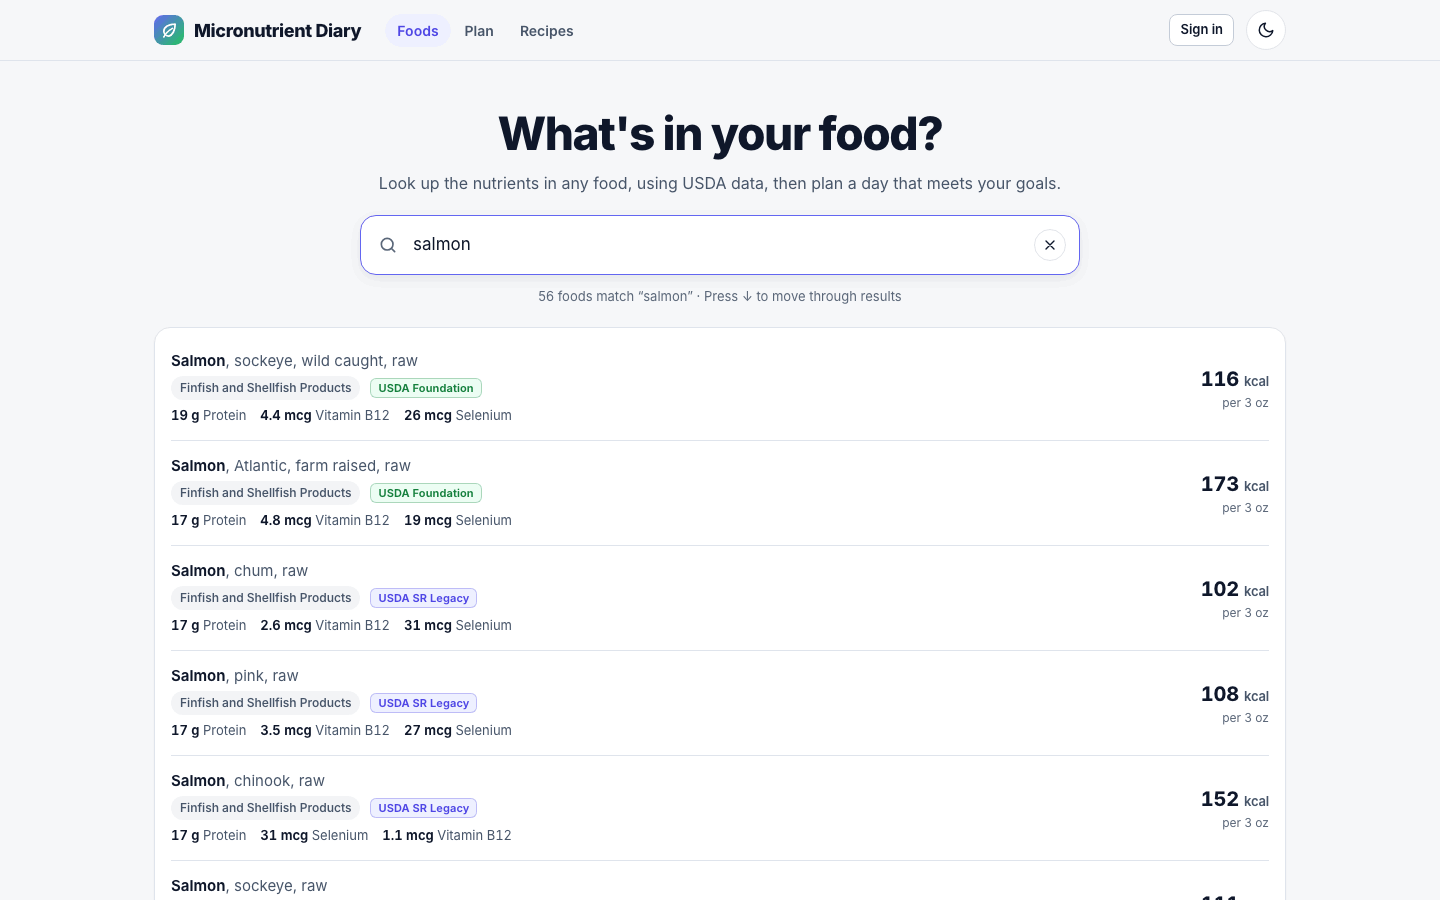
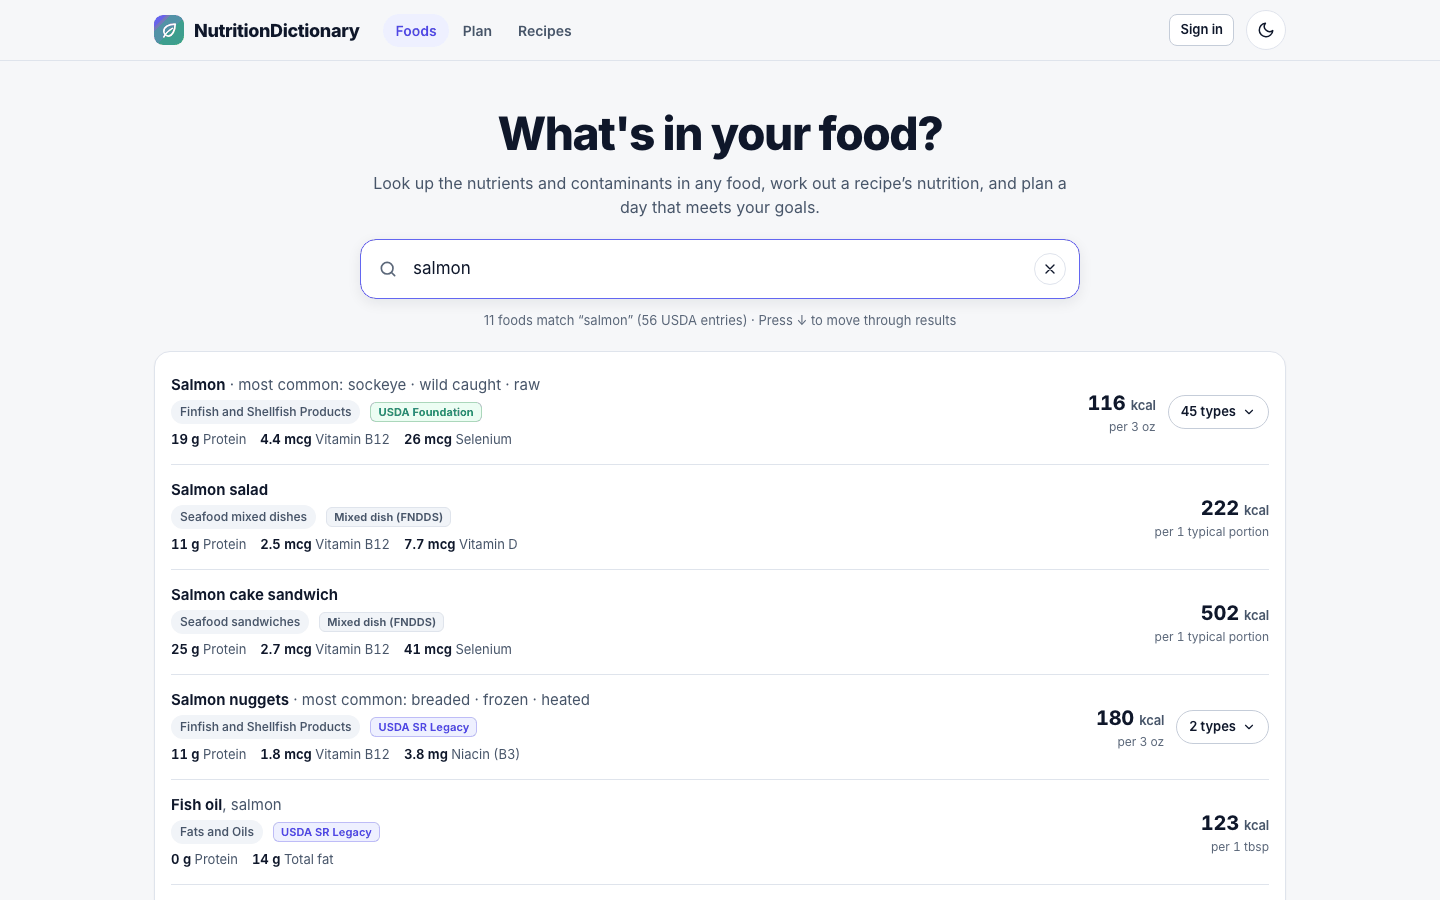
docs(walkthrough): one row per food, the type picker and the Type switcher
Search, food page, Compare and planner sections describe grouped results,
'Which cod?', the food page Type control and how a food and its most
common type are chosen. Refreshed 03 and 04; new 72-75 (all under 70 KB).

diff --git a/docs/WEBSITE_WALKTHROUGH.md b/docs/WEBSITE_WALKTHROUGH.md
@@ -59,8 +59,24 @@ Further down:
 **Searching.**
 
 - Results start at 2 letters and update as you type. The address changes to `/?q=salmon`, so a search can be shared and the Back button returns to it, with the same results and scroll position.
-- Each row shows the name, category, a USDA dataset badge, the top three nutrients, and calories per typical serving. Clicking a row opens the food page. There's no Add button here; adding happens on the food page.
-- **Show more (N left)** loads the next 20.
+- **One row per food.** USDA lists many foods several ways (cod 9 ways, salmon 45). Each food shows once, with its **most common type**: "Salmon · most common: sockeye · wild caught · raw". The status line counts foods and entries: "11 foods match "salmon" (56 USDA entries)". A food USDA lists once looks as it always did.
+- Each row shows the name, category, a USDA dataset badge, the top three nutrients, and calories per typical serving, all for the most common type. Clicking the row opens that type's page. There's no Add button here; adding happens on the food page.
+- **9 types** (on foods with several) opens the type picker, below.
+- **Show more (N left)** loads the next 20 foods.
+
+![Which cod?](walkthrough/72-search-cod-types.png)
+
+**Choosing a type.** The **9 types** button opens **Which cod?** under the row:
+
+- The **Most common** type comes first, then **Raw**, **Cooked**, **Canned, dried & cured** and **Other forms**, A to Z within each. Each type shows its qualifiers ("Atlantic · dried and salted"), calories per 100 g and its USDA dataset, so the choice is informed.
+- Choosing a type opens its food page.
+- Foods with 10 or more types get a **Filter** box ("sockeye canned" leaves two salmon). Foods with more than 60 types (rice, beef) load the rest of the list when the picker opens.
+- Keyboard: Tab reaches **9 types**, Enter opens it, ↑ ↓ move between types (and back to the filter), Home and End jump, Enter chooses, Esc clears the filter and then closes the picker, returning focus to **9 types**. Screen readers hear "Cod, 9 types, choose a type".
+- On a phone the picker opens in place, full width:
+
+![The type picker on a phone, in dark mode](walkthrough/75-phone-dark-cod-types.png)
+
+**What counts as one food.** The short name decides it (`lib/food-groups.ts`): "Fish, cod, Atlantic, raw" and "Cod, Pacific or Alaskan, frozen" are both **Cod**, but "Codfish salad" and "Fish oil, cod liver" are their own foods, and Cheddar and Swiss cheese, or black and kidney beans, stay apart. Catch-all names take the next word too ("Soup, tomato" vs "Soup, chicken noodle"; "Oil, olive" vs "Oil, canola"), branded products only group with the same product, and restaurant, fast-food and baby-food dishes never group. The **most common** type is the entry with calories, without a canned, dried, smoked or other unusual form you didn't search for, from USDA Foundation data before SR Legacy before survey data, raw or plain before cooked, and of the variety most entries share (Atlantic cod, white rice).
 - Keyboard: `/` jumps to the box from anywhere on the page, ↓ moves into the results, Esc clears.
 - Foods you open are remembered as **Recent** chips under the box, in this browser only. Each has an × and there's a **Clear** button.
 - No matches gives "No foods match…" with a tip to use a simpler word and **Browse foods instead**.
@@ -73,6 +89,7 @@ Further down:
 
 - **Breadcrumb:** Foods › category › food.
 - **Name,** with a badge for the USDA dataset. Foods with almost no data also get a **Limited data** badge. An older record that USDA has replaced gets a note linking to the newer one.
+- **Type** (foods with several types): "Type: sockeye · wild caught · raw · 45 types of salmon". It opens the same picker as search, with this page marked **This page**, and each type opens its own page. The serving you picked comes along when it makes sense: 1 oz, 3 oz, 100 g and custom amounts always, a household measure ("1 fillet") when the other type has it, otherwise that type's usual serving.
 - **Add to my plan** puts the food on your planner list, and the planner chooses how much. **Add exactly 216 g** does the same but keeps the serving you picked as a fixed amount, and plans the rest of the day around it. A short line under the buttons says which is which. The button then becomes **In your plan · Open plan**, with the amount if it's fixed.
 - **Compare** opens the [comparison panel](#4-compare).
 - **Share** copies the link, or opens the share sheet on a phone.
@@ -88,13 +105,15 @@ Further down:
 
 ![A custom amount in ounces](walkthrough/71-food-custom-ounces.png)
 
+![Switching to another type of cod at 3 oz](walkthrough/73-food-type-switcher.png)
+
 **How the numbers scale.** USDA stores every nutrient per 100 g, and that is all the database holds. A serving's amount is that value × grams ÷ 100, from the unrounded value, and only the shown number is rounded (0 decimals from 10, 1 from 1, 2 below 1). % Daily Value comes from the unrounded amount. Ounces are exact: 1 oz = 28.349523125 g, so 3 oz = 85.05 g. Where USDA lists "3 oz" as 85 g, or "1 oz" as 28 or 28.35 g, it is the same menu entry as the standard weight, at the exact grams. The difference is 0.06%, which only moves a number sitting right on a rounding edge, by one in its last digit. "—" stays "—" at every weight, † stays on values from the older entry, and a recipe's lower bounds keep their "≥". All of this is in `lib/serving-scale.ts`, with tests.
 
 ![Related foods and the data source](walkthrough/05-food-related-and-source.png)
 
 At the bottom:
 
-- **Other forms** and **Nutritionally similar foods** are cards that open those foods.
+- **Other forms** and **Nutritionally similar foods** are cards that open those foods. **Other forms** leaves out the types the **Type** control already lists, and disappears when that's all of them.
 - **Where this data comes from** names the dataset, links the USDA record, and gives the publication date and release. Where USDA holds the same food in another dataset, **Same food elsewhere** links to it.
 
 ## 3. Contaminant meters
@@ -157,7 +176,7 @@ At the bottom of a full panel, **How we work this out** repeats the bands and li
 **Compare** on a food page opens a panel below the page.
 
 - **Suggestion chips** offer other forms and similar foods. Click to add or remove one.
-- **Or search for another food** finds anything else. You can add up to three foods, and the rest grey out once you have.
+- **Or search for another food** finds anything else, one row per food. **Add** compares the most common type; **9 types** opens the picker to compare another type instead (this page's own food is shown but can't be added). You can add up to three foods, and the rest grey out once you have.
 - **Compare at** puts every label on the same weight: **1 oz**, **3 oz** or **100 g**, one food's serving ("Broccoli (this page): 1 cup, chopped (91 g)", so the others are shown at 91 g), **Each food's usual serving**, or **Custom amount…** in grams or ounces. It starts at the weight the food page is showing, so the page's food doesn't jump and every food is comparable straight away. A line under it says "All 3 labels show 3 oz (85.05 g), so you can compare them directly."
 - **The labels** sit side by side, and you scroll sideways if they don't fit. Each has its own **Serving size** menu, the same one as on its food page, so a food that USDA only lists at 100 g still has 1 oz and 3 oz. Changing one label's menu overrides **Compare at** for that label only: it gets a **Different weight** tag, and a warning names each food's weight with a **Put every food at 3 oz (85.05 g)** button. Changing **Compare at** puts every label back on it.
 - When raw and cooked foods are side by side (raw salmon and cooked lingcod), a note says that cooking removes water, so equal weights aren't like for like.
@@ -230,7 +249,11 @@ Below those:
 
 ![Your foods, with one food's options open](walkthrough/22-plan-your-foods.png)
 
-**Find foods you like** searches the same way as the home page, but each row has an **Add** button. The name links to the food's page. **Popular starting points** are one-click searches.
+**Find foods you like** searches the same way as the home page, one row per food, but each row has an **Add** button. The name links to the food's page. **Popular starting points** are one-click searches.
+
+![Choosing a type of cod in the planner](walkthrough/74-plan-cod-types.png)
+
+On a food with several types, **Add** adds the most common type, for when you don't mind which. **9 types** opens the picker, where every type has its own **Add** / **Added** button, and the control then says how many are in your list ("9 types · 2 added").
 
 **Your foods** is the list the plan is built from. Each food has two buttons:
 
